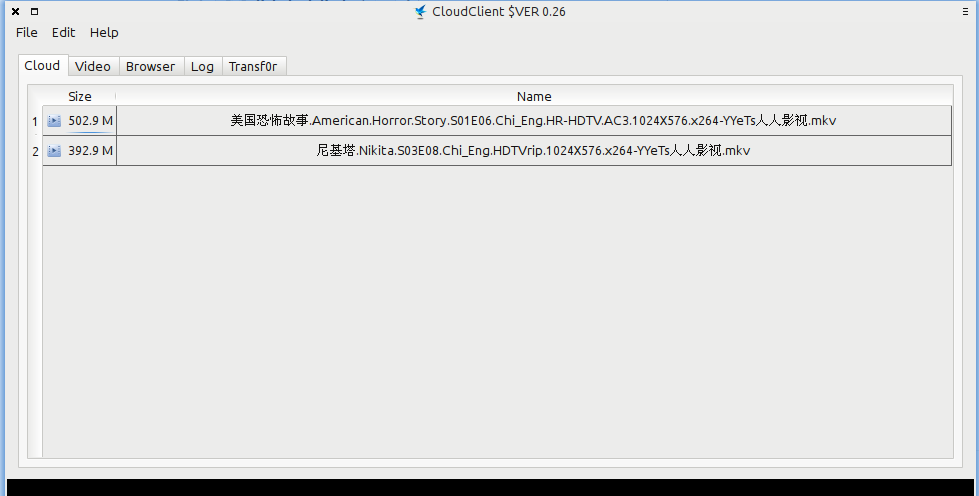
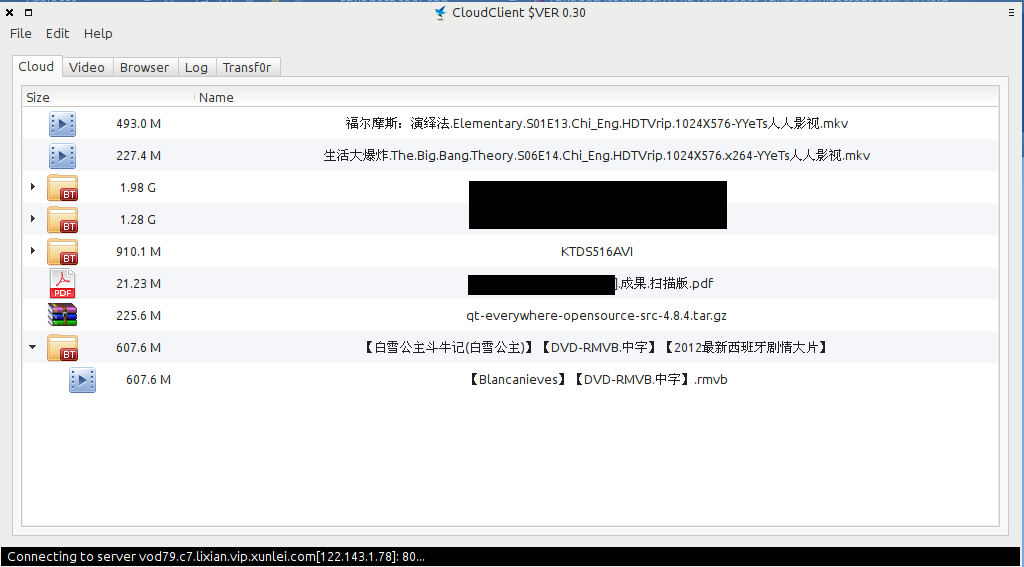
Let us release that way

diff --git a/readme.md b/readme.md
@@ -18,8 +18,7 @@
 
 ## 截图:
 
-目前BT任务可以添加，至于如何展示，还没有完全确定呢：
-(做成树？)
+目前BT任务可以添加，而且你可以同时查看所有的BT任务，这一点官方是没有实现的：
 
 ![Screenshot] (https://raw.github.com/CaledoniaProject/XLCloudClient/master/contrib/screenshot/1.png "Desktop screenshot")
 
